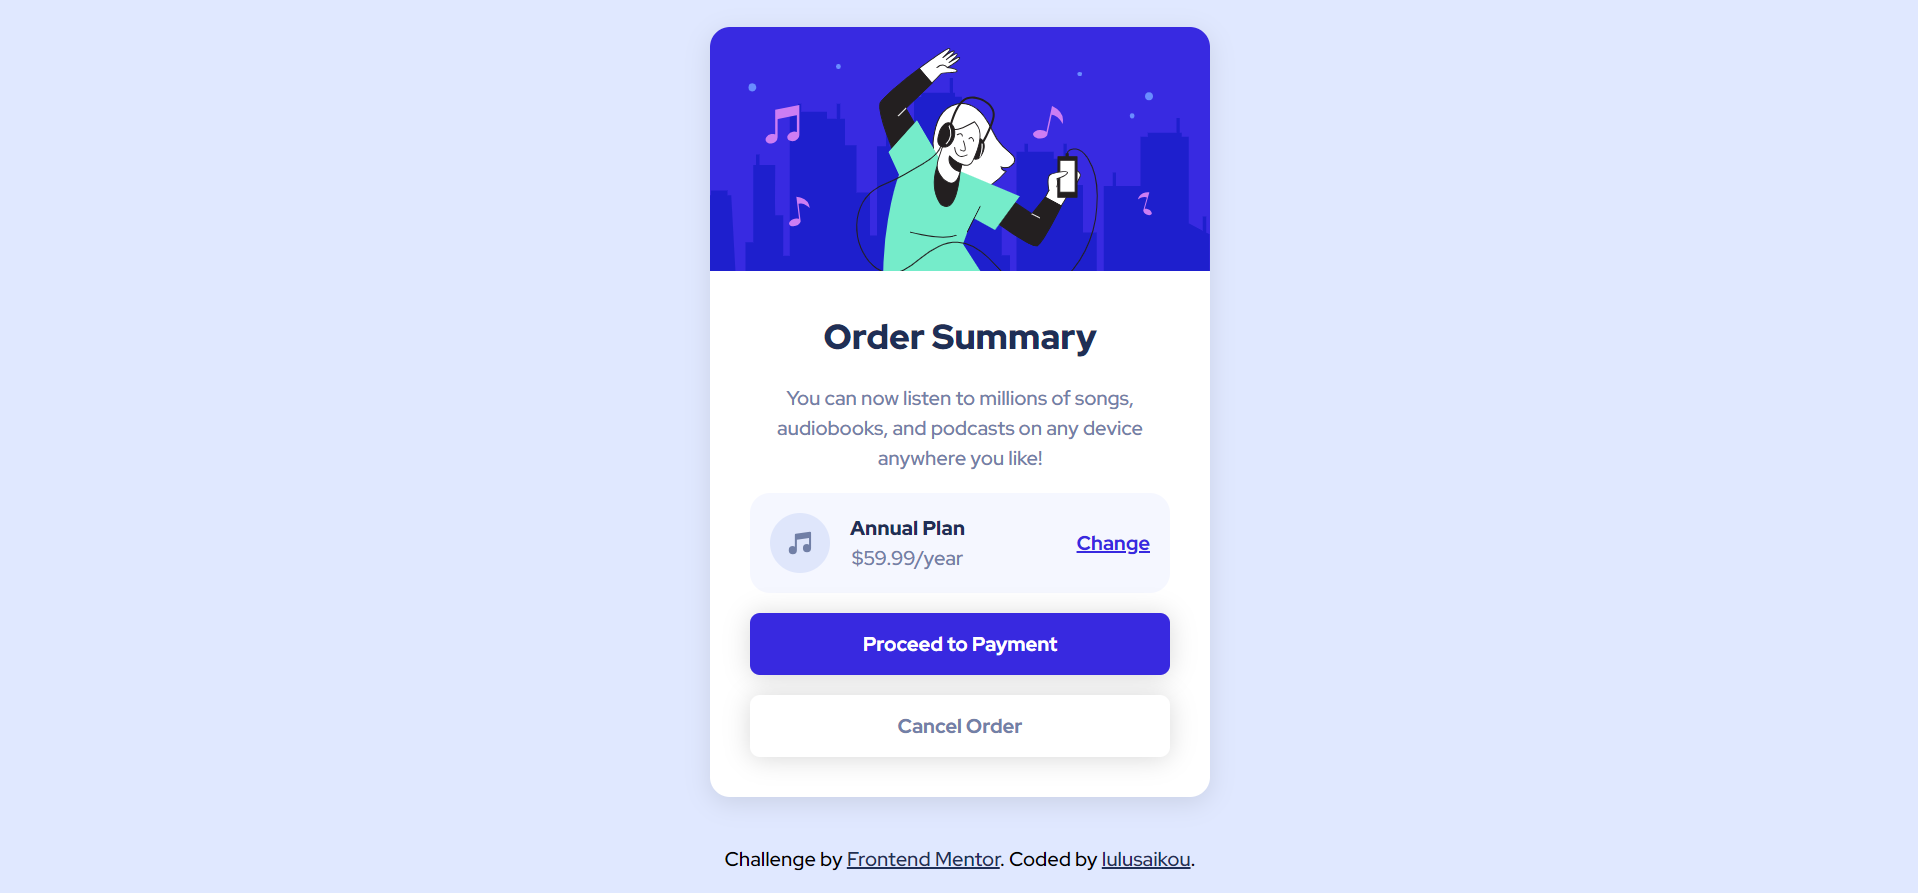
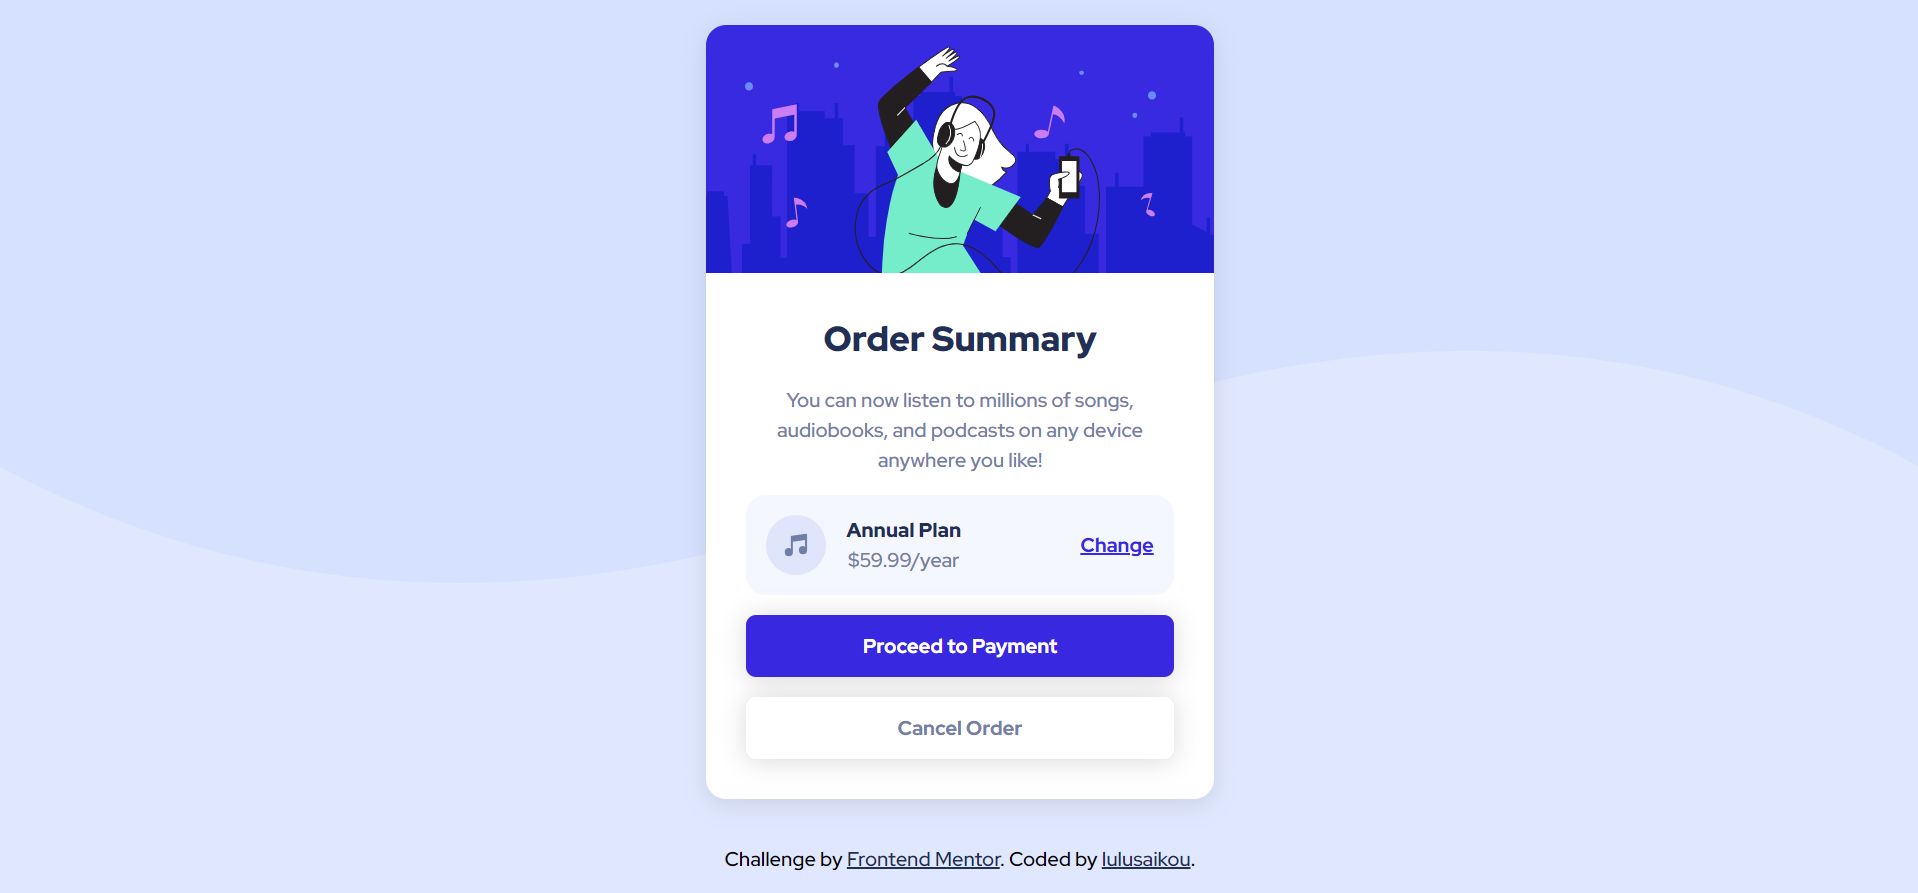
challenge 3 - update css

diff --git a/order-summary-component/style.css b/order-summary-component/style.css
@@ -65,6 +65,9 @@ body {
 
   background-color: var(--clr-primary);
   font-family: var(--ff-base);
+  background-image: url(./images/pattern-background-desktop.svg);
+  background-repeat: no-repeat;
+  background-size: contain;
 }
 
 main {
@@ -78,7 +81,7 @@ main {
 .order {
   --border-rdx: 1rem;
 
-  max-width: 25rem;
+  max-width: 25.375rem;
   background-color: white;
   border-radius: var(--border-rdx);
   overflow: hidden;
@@ -172,5 +175,9 @@ main {
 @media (max-width: 34em) {
   html {
     font-size: 12px;
+  }
+
+  body {
+    background-image: url(./images/pattern-background-mobile.svg);
   }
 }
